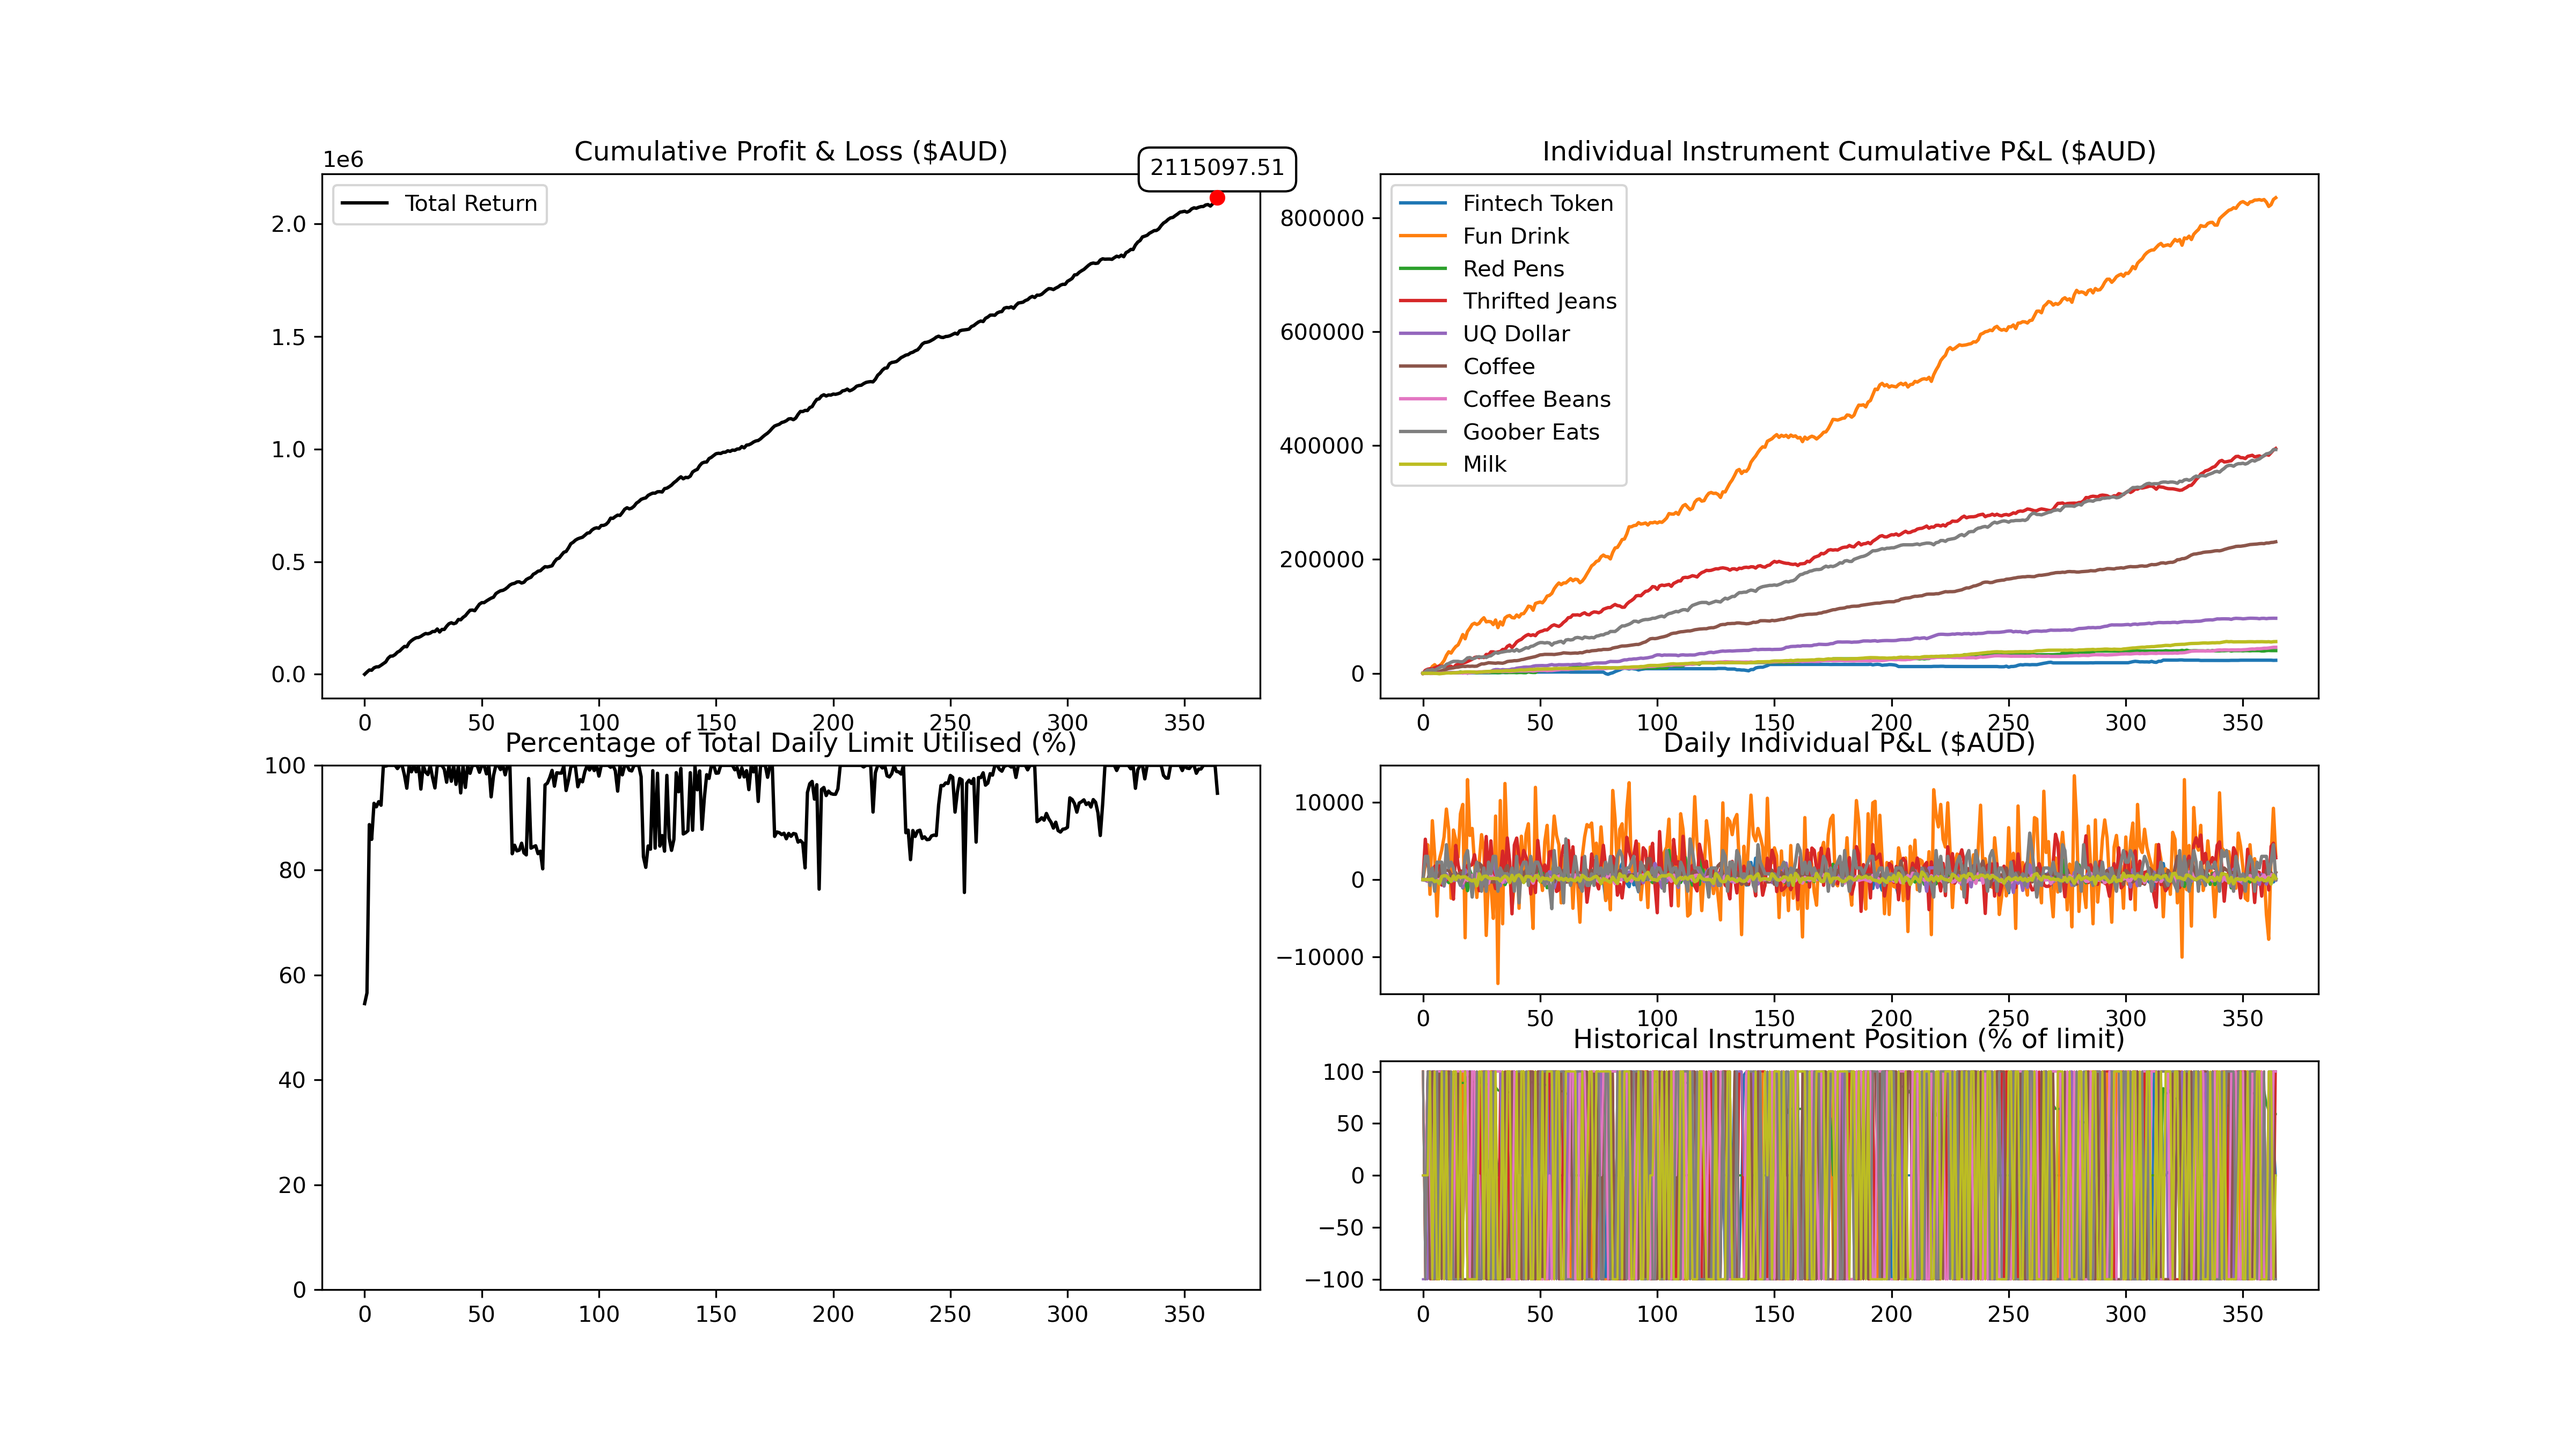
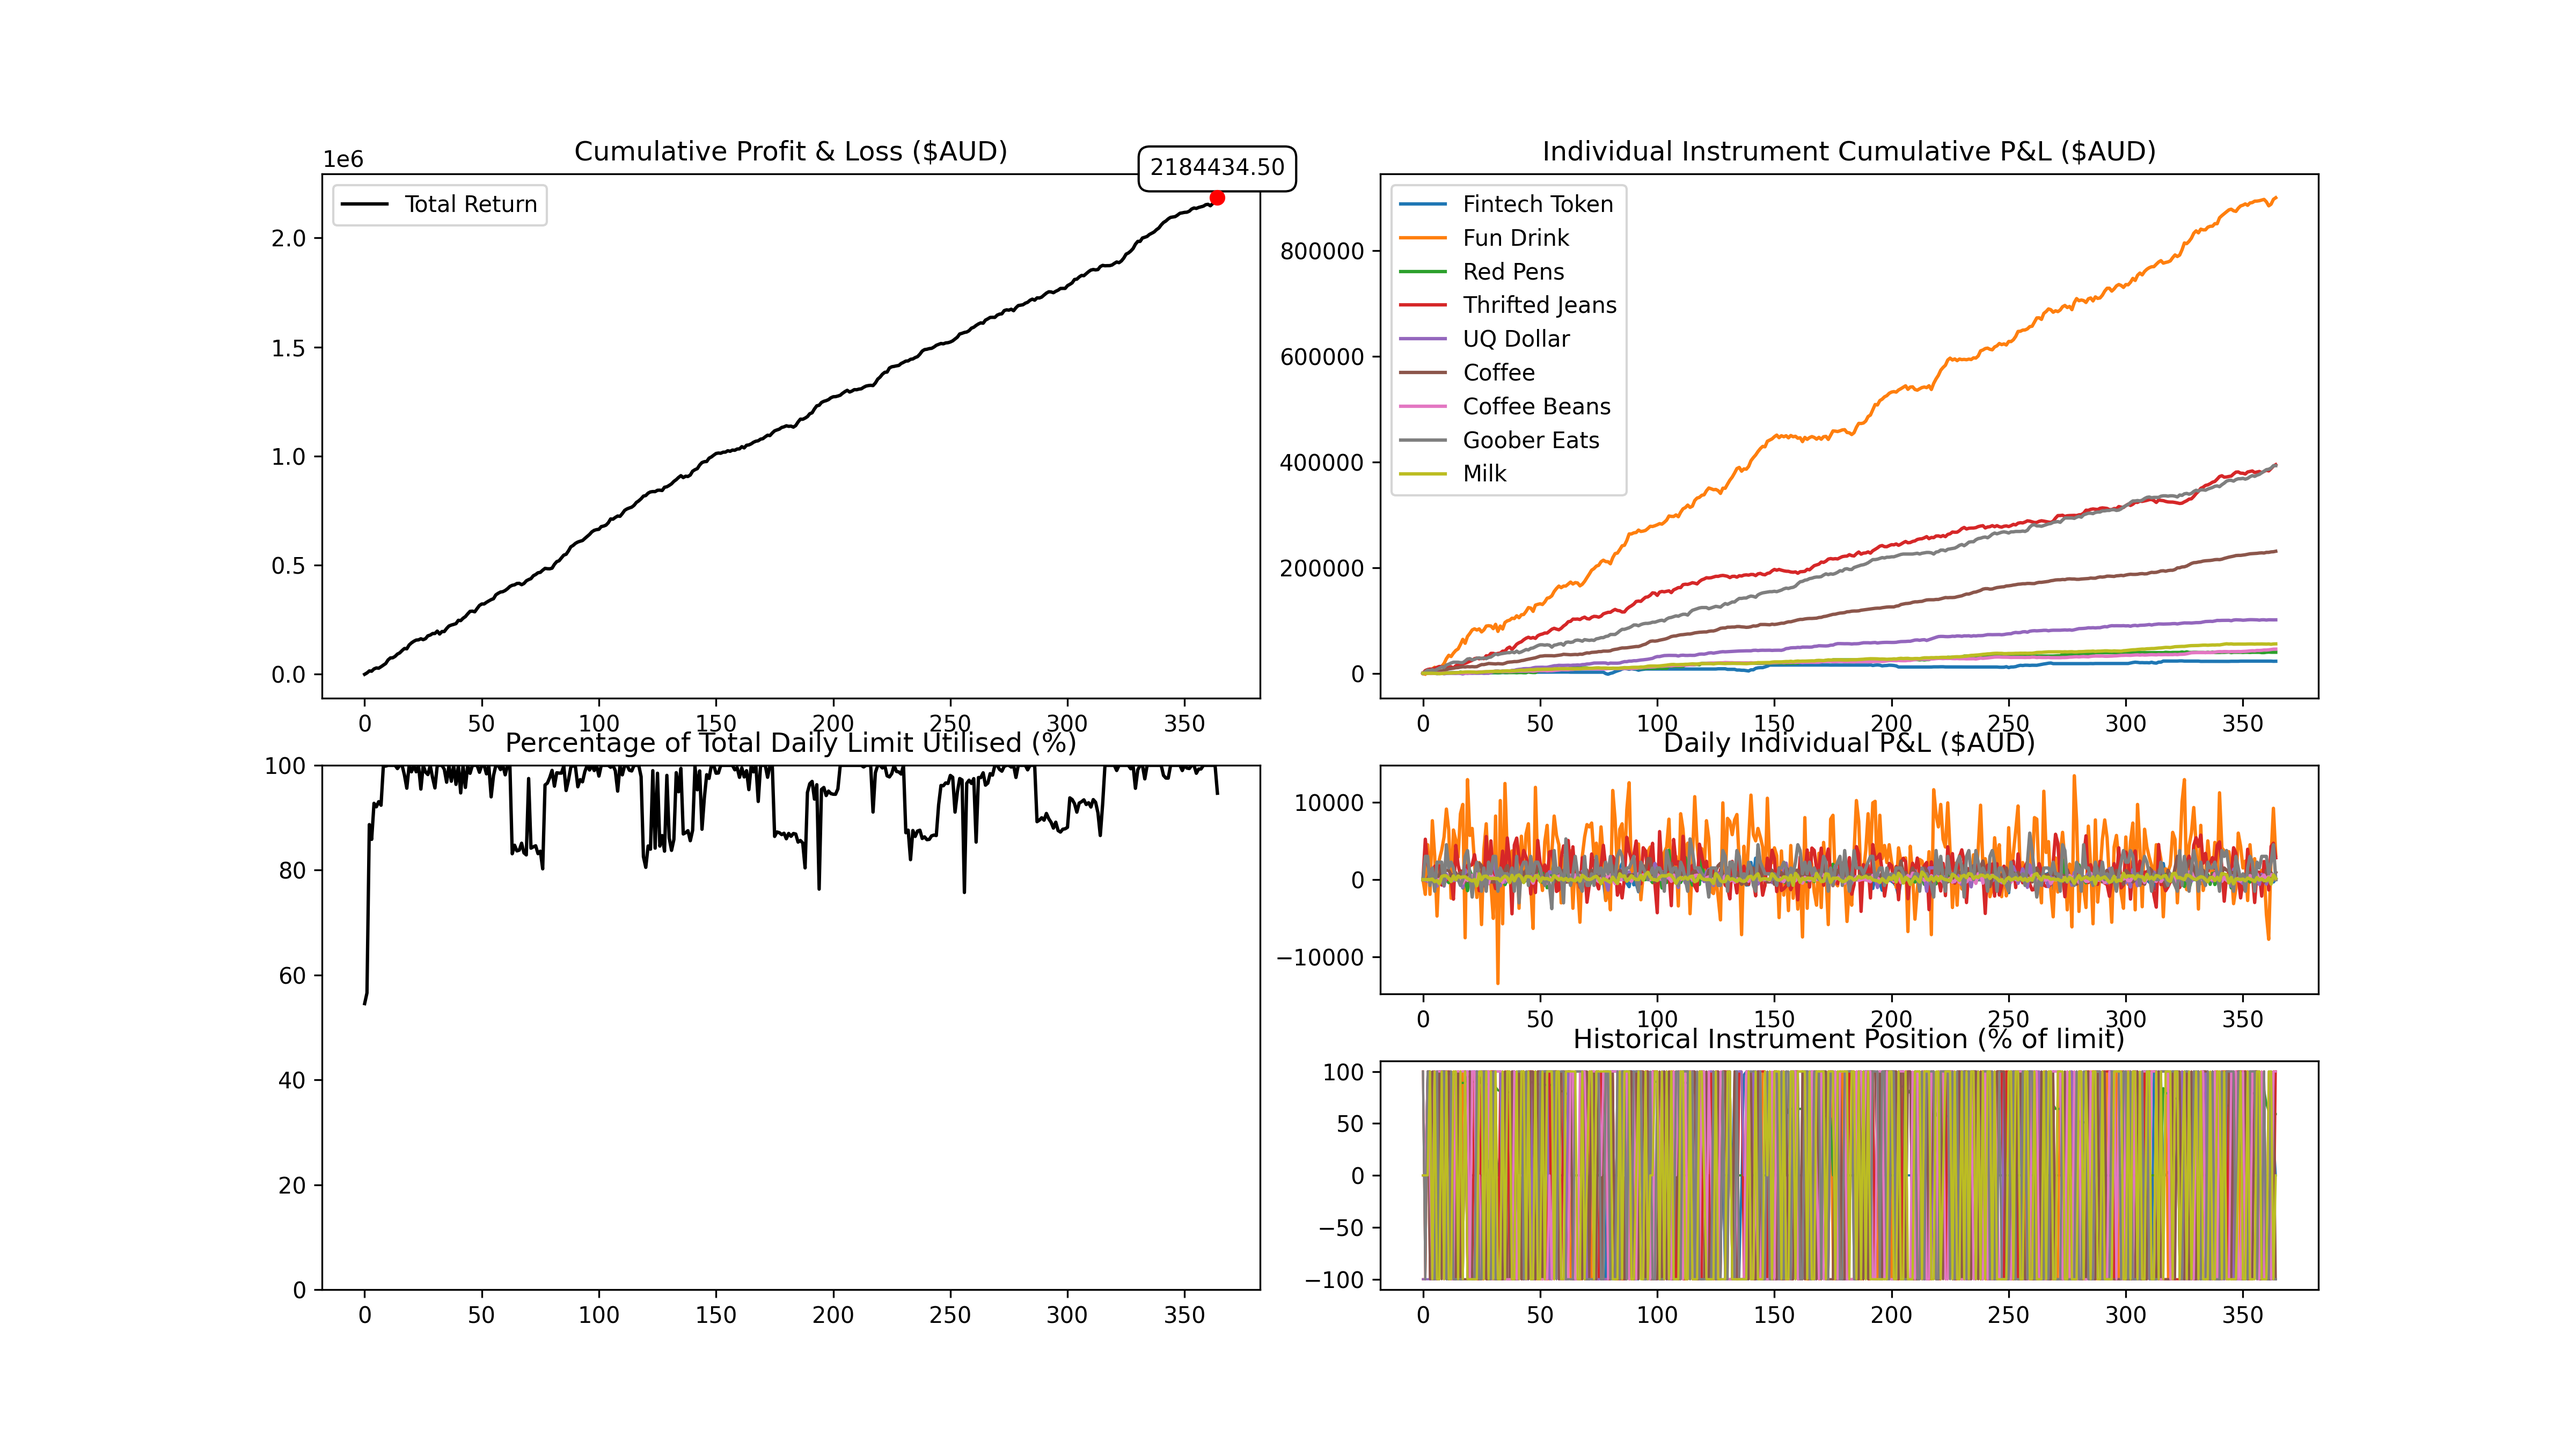
Final algorithm

diff --git a/algorithm.py b/algorithm.py
@@ -4,6 +4,14 @@ from sklearn.preprocessing import StandardScaler
 import pandas as pd
 from statsmodels.tsa.api import VAR, ARIMA
 from sklearn.preprocessing import StandardScaler
+from statsmodels.tools.sm_exceptions import ConvergenceWarning
+import warnings
+
+# Suppress only ConvergenceWarnings from statsmodels
+warnings.simplefilter('ignore', ConvergenceWarning)
+
+# supress all warnings
+warnings.filterwarnings("ignore")
 
 # Custom trading Algorithm
 class Algorithm():
@@ -34,6 +42,46 @@ class Algorithm():
         return self.data[instrument][-1]
     ########################################################
 
+    # RETURN DESIRED POSITIONS IN DICT FORM
+    def get_positions(self):
+        # Get current position
+        currentPositions = self.positions
+        # Get position limits
+        positionLimits = self.positionLimits
+
+        # Declare a store for desired positions
+        desiredPositions = {}
+        # Initialise to hold positions for all instruments
+        for instrument, positionLimit in positionLimits.items():
+            desiredPositions[instrument] = 0
+
+        # Apply Regression Model for Coffee
+        self.apply_regression_model(positionLimits, desiredPositions)
+        # IMPLEMENT CODE HERE TO DECIDE WHAT POSITIONS YOU WANT 
+        #######################################################################
+        # Buy thrifted jeans maximum amount
+        desiredPositions["UQ Dollar"] = self.get_uq_dollar_position(currentPositions["UQ Dollar"], positionLimits["UQ Dollar"])
+        desiredPositions['Thrifted Jeans'] = self.get_jeans_position()
+        desiredPositions["Red Pens"] = self.get_red_pens_position(currentPositions["Red Pens"], positionLimits["Red Pens"])
+        desiredPositions["Goober Eats"] = self.get_goober_eats_position()
+        
+        # apply fun drink strategy
+        self.get_fun_drink_position(desiredPositions, positionLimits)
+        #desiredPositions["Fintech Token"] = self.get_token_position(currentPositions["Fintech Token"], positionLimits["Fintech Token"])
+        self.apply_arima_model("Fintech Token", positionLimits, desiredPositions, p=3, d=1, q=2)
+        # Apply Regression Model for Coffee
+        self.apply_regression_model(positionLimits, desiredPositions)
+        # Apply ARIMA for Coffee Beans and Milk
+        self.apply_arima_model("Coffee Beans", positionLimits, desiredPositions)
+        self.apply_arima_model("Milk", positionLimits, desiredPositions)
+
+        desiredPositions = self.scale_positions(desiredPositions, currentPositions)
+
+
+        return desiredPositions
+
+
+    ########################################################
     # HELPER METHODS
     
     # Regression model for Coffee
@@ -81,41 +129,7 @@ class Algorithm():
                 desiredPositions[inst] = int(desiredPositions[inst] * scaling_factor)
         return desiredPositions
 
-    # RETURN DESIRED POSITIONS IN DICT FORM
-    def get_positions(self):
-        # Get current position
-        currentPositions = self.positions
-        # Get position limits
-        positionLimits = self.positionLimits
-
-        # Declare a store for desired positions
-        desiredPositions = {}
-        # Initialise to hold positions for all instruments
-        for instrument, positionLimit in positionLimits.items():
-            desiredPositions[instrument] = 0
-
-        # Apply Regression Model for Coffee
-        self.apply_regression_model(positionLimits, desiredPositions)
-        # IMPLEMENT CODE HERE TO DECIDE WHAT POSITIONS YOU WANT 
-        #######################################################################
-        # Buy thrifted jeans maximum amount
-        desiredPositions["UQ Dollar"] = self.get_uq_dollar_position(currentPositions["UQ Dollar"], positionLimits["UQ Dollar"])
-        desiredPositions['Thrifted Jeans'] = self.get_jeans_position()
-        desiredPositions["Red Pens"] = self.get_red_pens_position(currentPositions["Red Pens"], positionLimits["Red Pens"])
-        desiredPositions["Goober Eats"] = self.get_goober_eats_position()
-        desiredPositions["Fun Drink"] = self.get_fun_drink_position()
-        #desiredPositions["Fintech Token"] = self.get_token_position(currentPositions["Fintech Token"], positionLimits["Fintech Token"])
-        self.apply_arima_model("Fintech Token", positionLimits, desiredPositions, p=3, d=1, q=2)
-        # Apply Regression Model for Coffee
-        self.apply_regression_model(positionLimits, desiredPositions)
-        # Apply ARIMA for Coffee Beans and Milk
-        self.apply_arima_model("Coffee Beans", positionLimits, desiredPositions)
-        self.apply_arima_model("Milk", positionLimits, desiredPositions)
-
-        desiredPositions = self.scale_positions(desiredPositions, currentPositions)
-
-
-        return desiredPositions
+    
     
     def scale_positions(self, desiredPositions, currentPositions):
         total_pos_value, prices_current, pos_values = self.calc_current_total_trade_val(desiredPositions, currentPositions)
@@ -177,18 +191,30 @@ class Algorithm():
 
         return total_pos_value, prices_current, pos_values
 
-    def get_fun_drink_position(self):
-        fun_df = pd.DataFrame(self.data["Fun Drink"])
-        fun_df['EMA'] = fun_df[0].ewm(span=5, adjust=False).mean()
-        # Buy if the price is above the 5 day EMA
-        price = self.data['Fun Drink'][-1]
-        ema = fun_df['EMA'].iloc[-1]
-        limit = self.positionLimits["Fun Drink"]
-        if price > ema:
-            desiredPositions = -limit
+    def get_fun_drink_position(self, desiredPositions, positionLimits):
+        drinks_df = pd.DataFrame(self.data["Fun Drink"])
+        pens_df = pd.DataFrame(self.data["Red Pens"])
+
+        drinks_df['EMA'] = drinks_df[0].ewm(span=5, adjust=False).mean()
+        pens_df['EMA'] = pens_df[0].ewm(span=5, adjust=False).mean()
+
+        drinks_df['EMA25'] = drinks_df[0].ewm(span=25, adjust=False).mean()
+        drinks_df['Cross'] = drinks_df['EMA'] - drinks_df['EMA25']
+
+        price_drink = self.data['Fun Drink'][-1]
+        price_pens = self.data['Red Pens'][-1]
+
+        ema_drink = drinks_df['EMA'].iloc[-1]
+        ema_pens = pens_df['EMA'].iloc[-1]
+        
+        cross_signal = drinks_df['Cross'].iloc[-1]
+
+        theo = ema_drink -0.025*ema_pens + 0.055*np.sign(cross_signal)*(abs(cross_signal)**(1/4))
+
+        if price_drink > theo:
+            desiredPositions["Fun Drink"] = -positionLimits["Fun Drink"]
         else:
-            desiredPositions = limit
-        return desiredPositions
+            desiredPositions["Fun Drink"] = positionLimits["Fun Drink"]
 
     def get_goober_eats_position(self):
         goober_df = pd.DataFrame(self.data["Goober Eats"])
@@ -213,9 +239,9 @@ class Algorithm():
         diff = avg - price
         boundary = max(self.data["UQ Dollar"]) - avg
 
-        if diff > 0.15:
+        if diff > 0.24:
             delta = limit * 2
-        elif diff < -0.15:
+        elif diff < -0.24:
             delta = -2 * limit
         else:
             delta = 0
